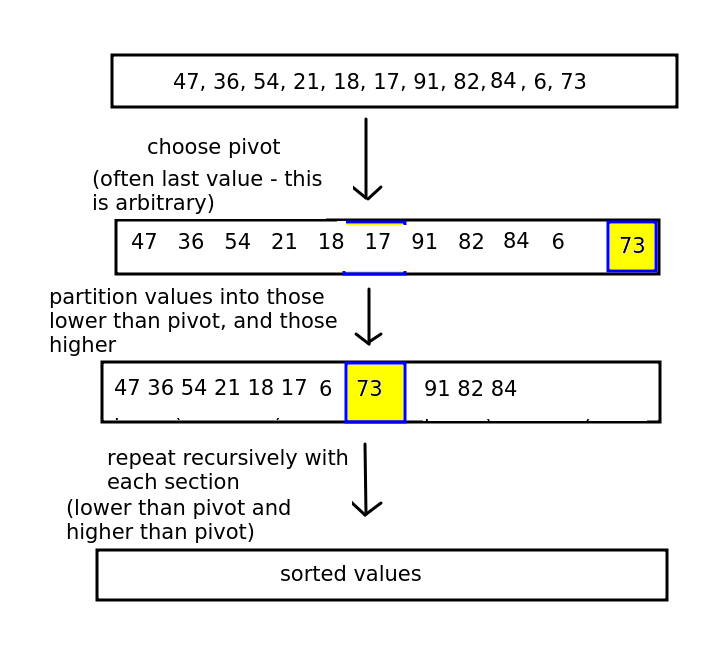
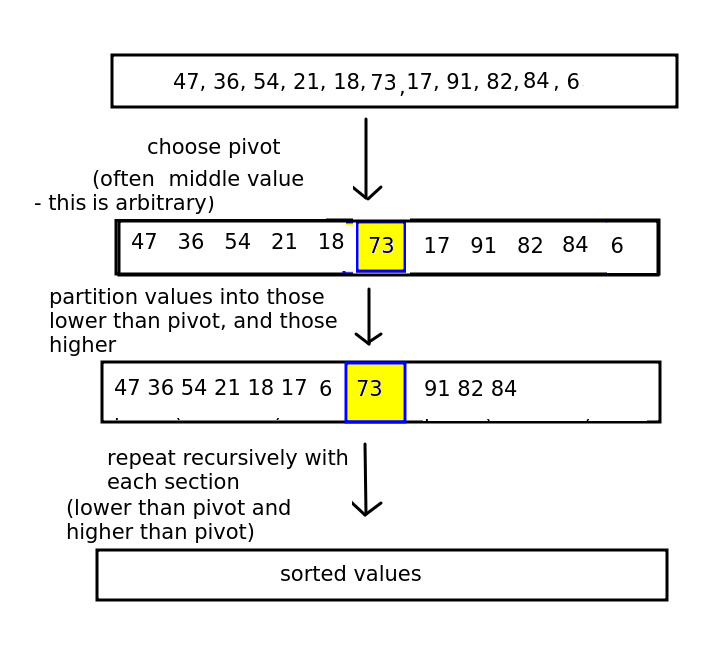
COM431: quicksort diagram fix

diff --git a/COM431/algorithms2.html b/COM431/algorithms2.html
@@ -29,7 +29,7 @@ those of you who are coping reasonably well with the module an idea on how more 
 <p>These algorithms use <em>recursion</em>. Please see <a href="trees.html">the trees topic</a> for a reminder on recursion.</p>
 <h3>Intro to quicksort</h3>
 <p>Quicksort is the first of the two algorithms. It works by recursively <em>partitioning</em> the list into two sections, or <em>partitions</em>, either side of an element we call the <em>pivot</em>. </p>
-<p>An arbitrary element (e.g. the last, the middle, or the first) is picked as the pivot, and then the <em>partitioning phase</em> begins. The aim of the partitioning phase is to rearrange the list so that it all the elements less than the pivot element are to its left, and all elements greater than the pivot element are to its right. To do this, the partitioning phase re-arranges the list, performing a series of swaps so it is ordered correctly.</p>
+<p>An arbitrary element (e.g. the middle, the last, or the first) is picked as the pivot, and then the <em>partitioning phase</em> begins. The aim of the partitioning phase is to rearrange the list so that it all the elements less than the pivot element are to its left, and all elements greater than the pivot element are to its right. To do this, the partitioning phase re-arranges the list, performing a series of swaps so it is ordered correctly.</p>
 <p>The general procedure is shown below.</p>
 <p><img src="../images/qsort1.png" alt="Quicksort - high level overview" /></p>
 <p>Next stage is to recursively perform the quicksort again on the partition <em>before</em> the pivot, and the partition <em>after</em> the pivot - as the elements in each partition will not be sorted yet, all we know is that the pivot is in the correct place. Each partition will have the algorithm applied to it (so that each parititon will have its own pivot, and the partition will be sorted into the sub-partition less than the partition's pivot, the partition's pivot, and the sub-partition greater than the pivot).</p>
